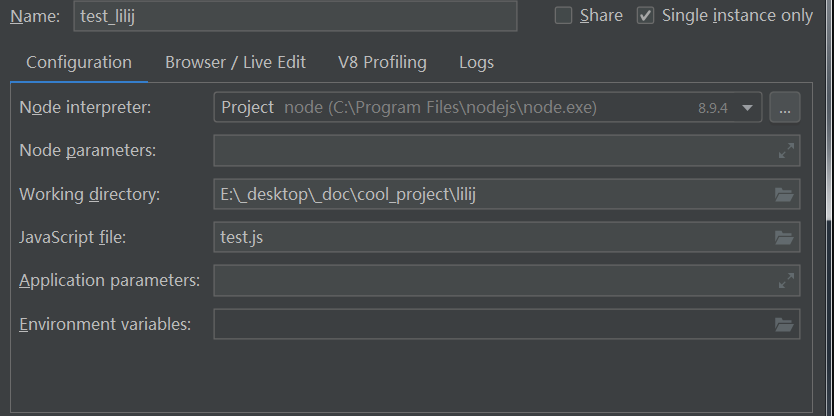
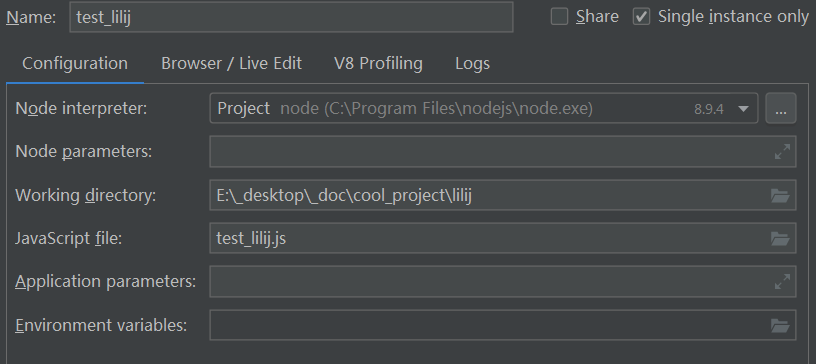
完善调试过程

diff --git a/lij.js b/lij.js
@@ -19,7 +19,7 @@ let parseToTokens = (exp) => {
     let tokens = exp.replace(/'\(\)/gi, "(quote ())")
         // .replace(/'\(/gi, "(quote ")
         .replace(/'(\w+)/gi, ($0, $1)=>"(quote "+$1+")")
-        .replace(/;.*/g, "")
+        .replace(/;.*\n/g, "")
         .replace(/\s+/gi, ",")
         .replace(/\[/gi, ",(,")
         .replace(/]/gi, ",),")
@@ -240,16 +240,20 @@ let interp = (exp, env) => {
     }
 };
 
-let lilij = (exp) => {
+let lij = (exp, need_serialize) => {
     let exp1 = parse(exp);
     let res = interp(exp1, {});
     if (!!res) {
         return JSON.stringify(res).replace(/\"/gi, "").replace(/\[/gi, "(").replace(/\]/gi, ")").replace(/,/gi, " ");
+        // if ((need_serialize === undefined || need_serialize === true)) {
+        // } else {
+        //     return res;
+        // }
     } else {
         return "[error]"
     }
 };
 
 module.exports = {
-    lilij
+    lij: lij
 };

diff --git a/test_lilij.js b/test_lilij.js
@@ -1,0 +1,20 @@
+// 使用lij.js，调用lil.scm，得到lilij解释器，再用lilij调用test_lilij.scm中的案例，并打印结果
+
+let fs = require('fs');
+let lij = require('./lij.js').lij;
+
+let lilij_data = fs.readFileSync('lilij.scm', 'utf-8');
+let data = fs.readFileSync('test_lilij_cases.scm', 'utf-8');
+
+let tests = data.split(/;#test/gi);
+for (let i in tests) {
+    let test_lijlij = tests[i].replace(/;.*\n/g, "").replace(/\s*\n/gi, '');
+    if (!!test_lijlij) {
+        try {
+            console.log('>> ' + test_lijlij);
+            console.log(lij(lilij_data.replace(";#exp", test_lijlij)));
+        } catch (e) {
+            console.error(e);
+        }
+    }
+}

diff --git a/test_lij.js b/test_lij.js
@@ -1,0 +1,18 @@
+// 使用lij.js，调用test_lij.scm中的案例，并打印结果
+
+let fs = require('fs');
+let lij = require('./lij.js').lij;
+
+let data = fs.readFileSync('test_lij_cases.scm', 'utf-8');
+let tests = data.split(/;#test/gi);
+for (let i in tests) {
+    let test_lij = tests[i].replace(/;.*\n/g, "").replace(/\s*\n/gi, '');
+    if (!!test_lij) {
+        try {
+            console.log('>> ' + test_lij);
+            console.log(lij(test_lij));
+        } catch (e) {
+            console.error(e);
+        }
+    }
+}
